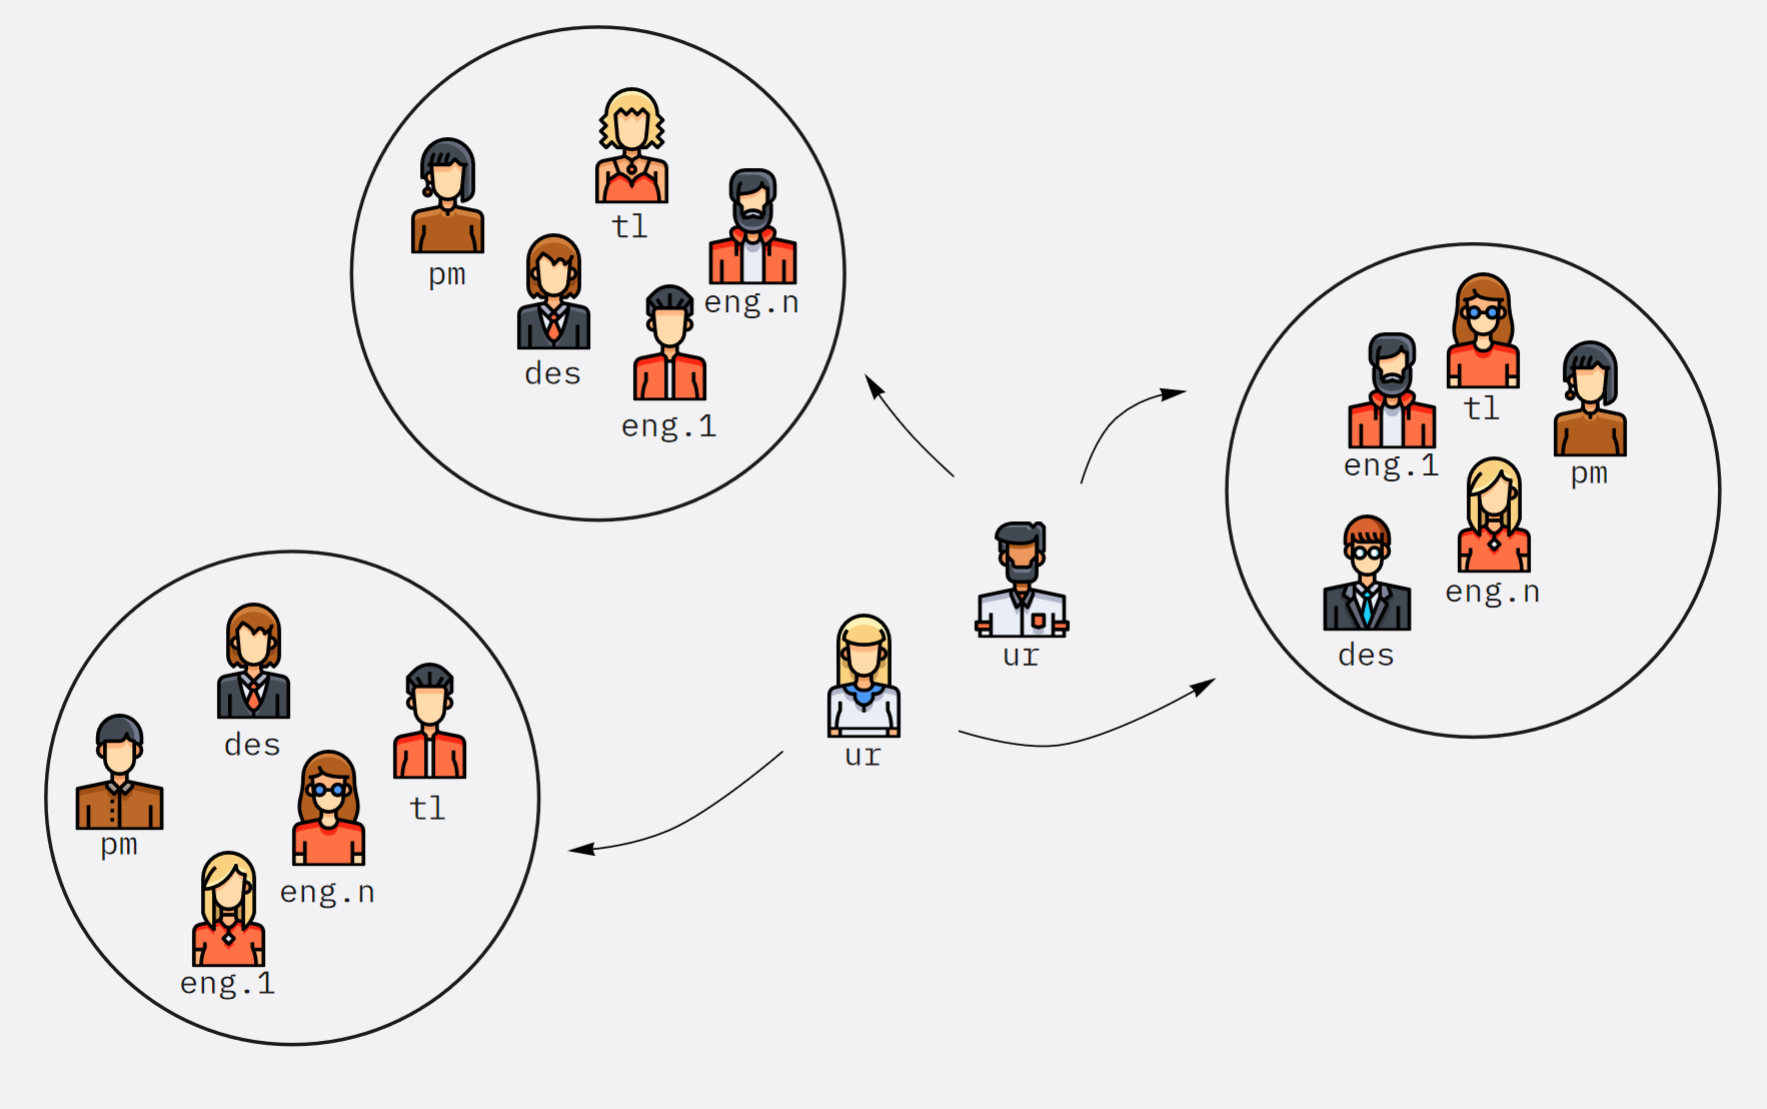
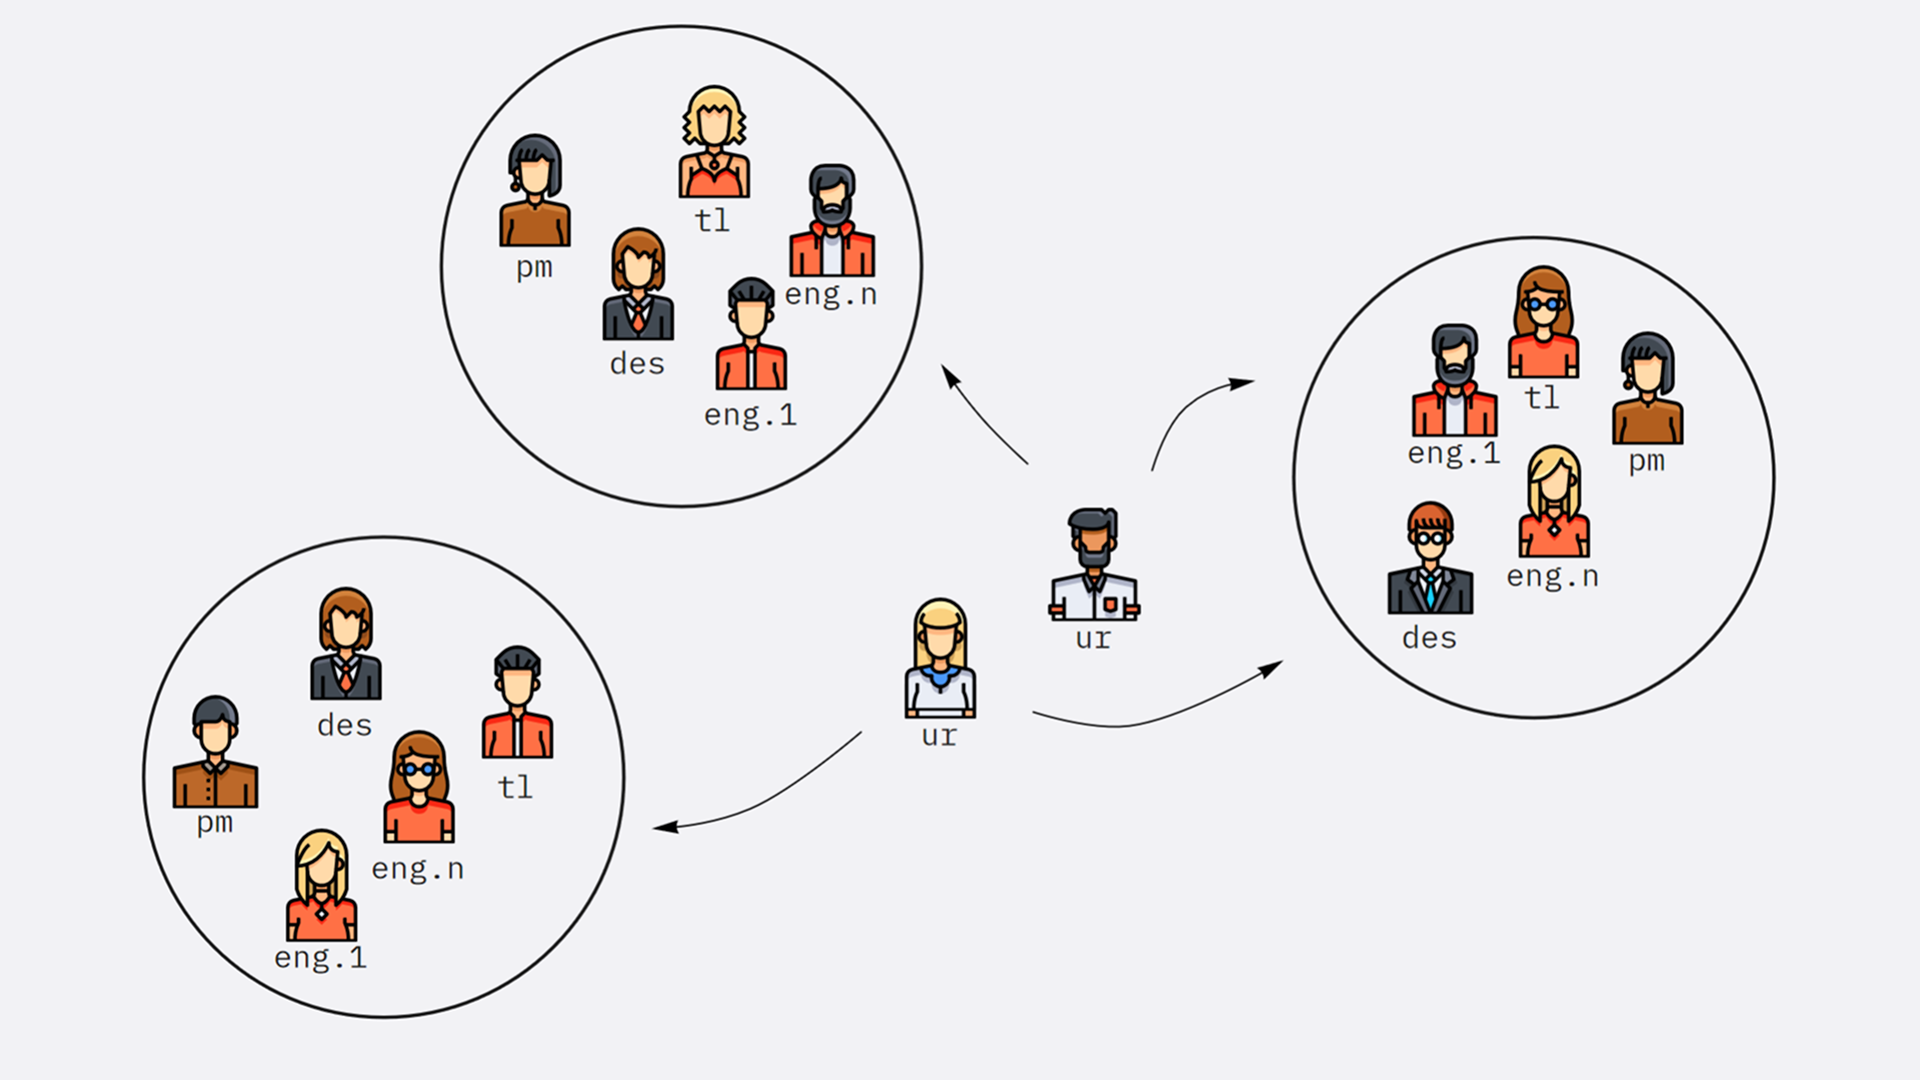
Update images

diff --git a/_portfolio/2021-building-a-user-research-team.md b/_portfolio/2021-building-a-user-research-team.md
@@ -13,8 +13,7 @@ sidebar:
   - title: "Responsibilities"
     text: "Provide alignment and leadership to a group of designers and researchers working on the B2B product."
   - title: "<br><br>  "
-    text: "[Back to the portfolio](/portfolio)"   
-classes: wide
+    text: "[Back to the portfolio](/portfolio)"
 ---
 
 When I joined Trustpilot, a user research team was already in place, but their work was mostly reactive. While teams were empowered to do their own research, and leaders agreed that understanding the intended audience better and validating ideas both were important practices. But a lack of clear direction and connecting to product leadership meant we weren’t generating strategic insights or making a clear business impact. 
